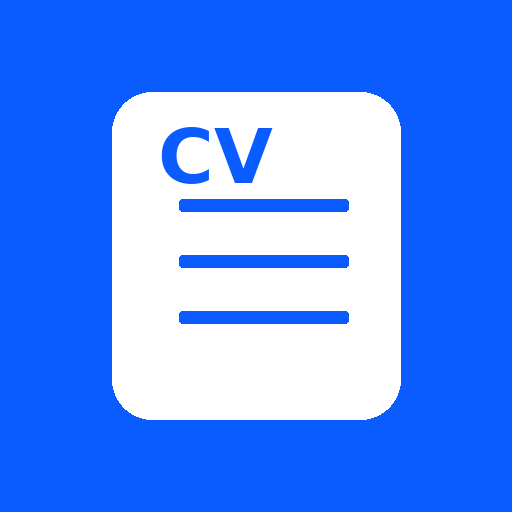
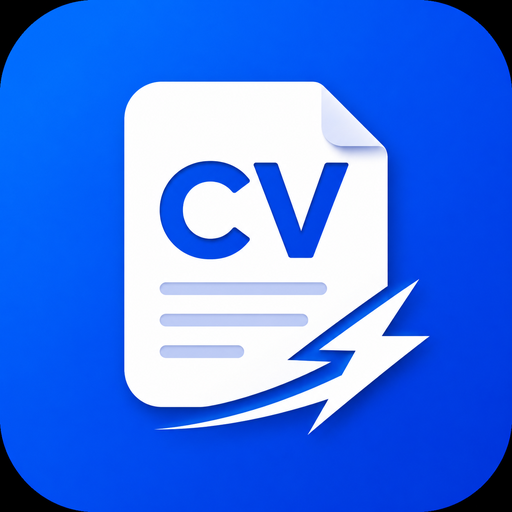
Add files via upload

diff --git a/index.html b/index.html
@@ -9,11 +9,12 @@
   <meta name="theme-color" content="#0b5cff" />
 
   <link rel="manifest" href="manifest.webmanifest" />
+  <link rel="icon" type="image/png" sizes="32x32" href="favicon-32.png" />
   <meta name="mobile-web-app-capable" content="yes" />
   <meta name="apple-mobile-web-app-capable" content="yes" />
   <meta name="apple-mobile-web-app-title" content="cvfast" />
   <meta name="apple-mobile-web-app-status-bar-style" content="default" />
-  <link rel="apple-touch-icon" href="icon-192.png" />
+  <link rel="apple-touch-icon" sizes="180x180" href="apple-touch-icon.png" />
   <link rel="icon" type="image/png" sizes="192x192" href="icon-192.png" />
   <link rel="icon" type="image/png" sizes="512x512" href="icon-512.png" />
   <link rel="stylesheet" href="style.css" />

diff --git a/sw.js b/sw.js
@@ -1,4 +1,4 @@
-const CACHE_NAME = "cvfast-app-v4-install-fix";
+const CACHE_NAME = "cvfast-app-v6-complete-icon";
 const ASSETS = [
   "./",
   "./index.html",
